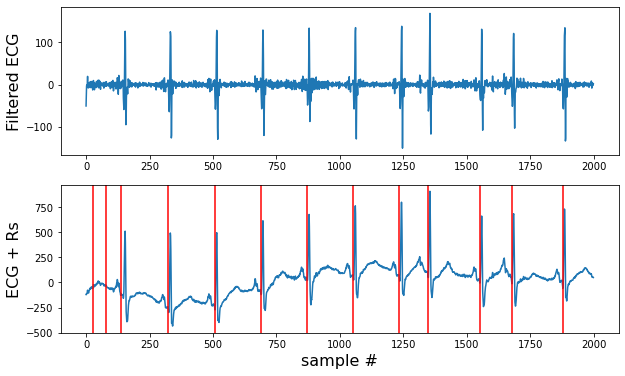
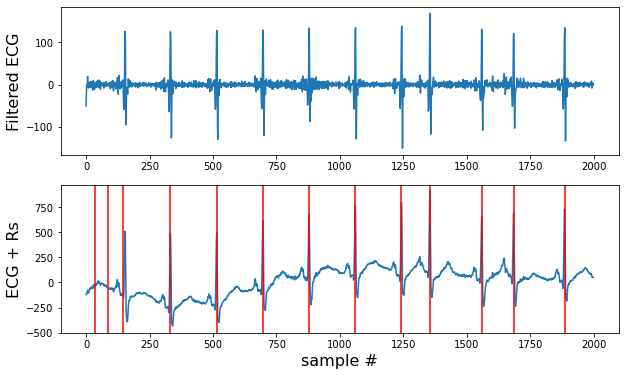
tweaked filter delay based on new filter

diff --git a/panTompkins.c b/panTompkins.c
@@ -165,7 +165,7 @@
 #define BUFFSIZE 600    // The size of the buffers (in samples). Must fit more than 1.66 times an RR interval, which
                         // typically could be around 1 second.
 
-#define DELAY 22		// Delay introduced by the filters. Filter only output samples after this one.
+#define DELAY 14		// Delay introduced by the filters. Filter only output samples after this one.
 						// Set to 0 if you want to keep the delay. Fixing the delay results in DELAY less samples
 						// in the final end result.
 
